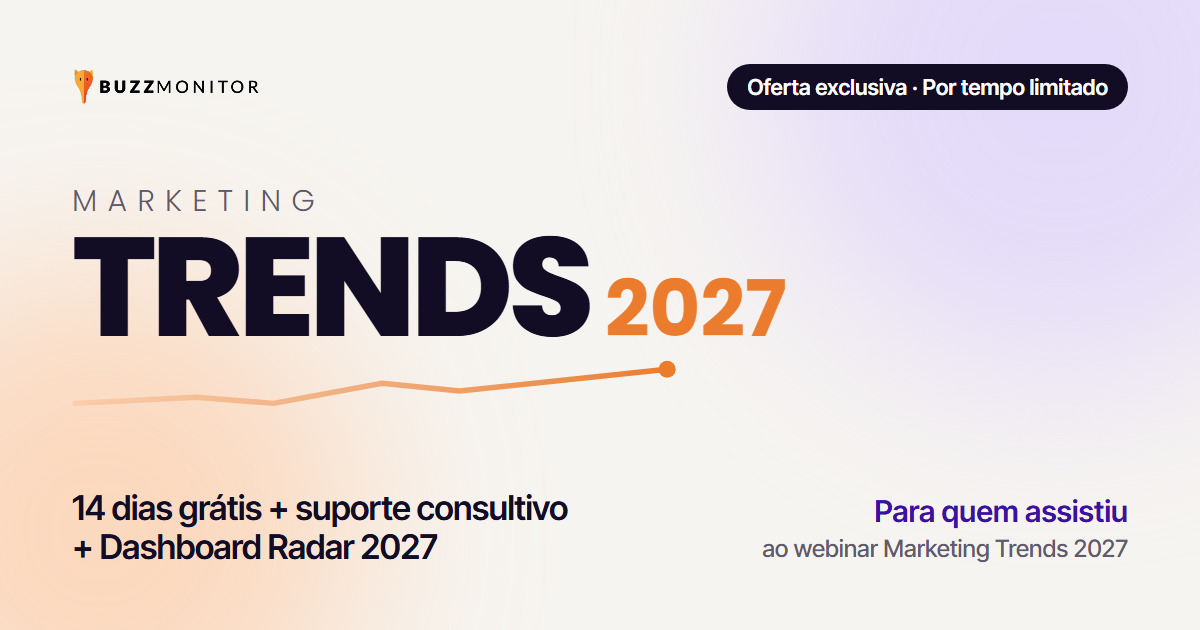
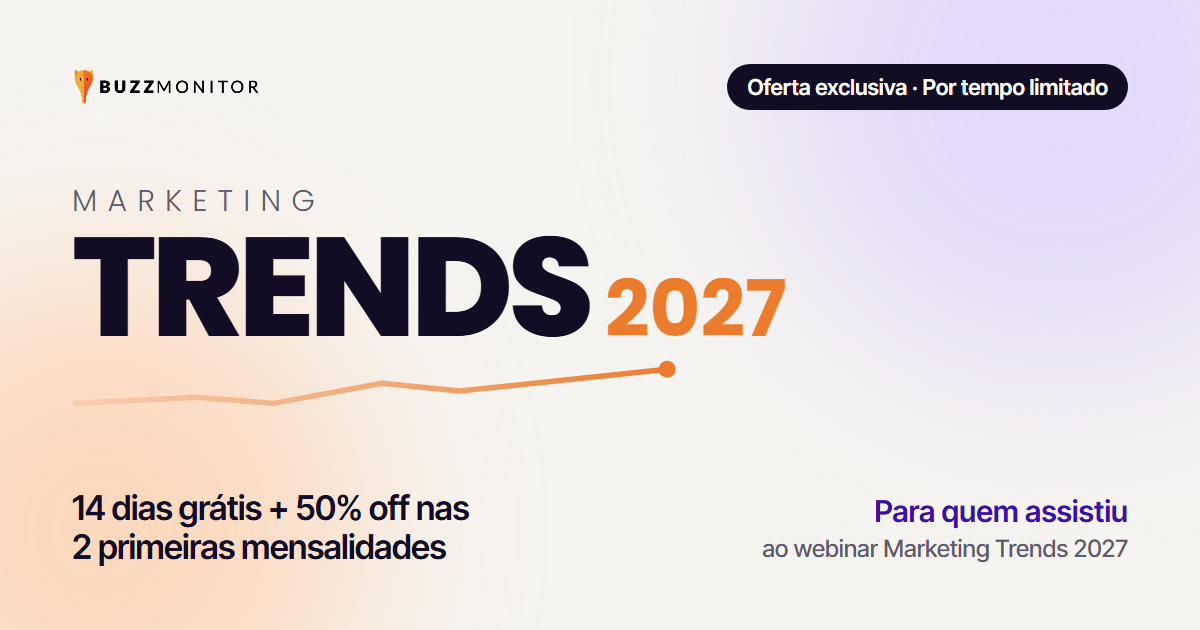
Trocar as ofertas das LPs de oferta do Marketing Trends 2027 (#979)
BR: 14 dias grátis + suporte consultivo + Dashboard Radar 2027 + 50% off
nas 2 primeiras mensalidades (a mesma oferta do webinar Black Friday sem
Caos). PT: na adesão ao plano anual, paga 10 meses e usufrui de 12, a
oferta aprovada para Portugal no webinar de janeiro. Previews (og)
regenerados.

Changed region(s): [[0.0617, 0.7841, 0.4933, 0.9048]]

diff --git a/landing-pages/buzzmonitor/oferta-marketing-trends-2027-pt/index.html b/landing-pages/buzzmonitor/oferta-marketing-trends-2027-pt/index.html
@@ -10,8 +10,8 @@ j=d.createElement(s),dl=l!='dataLayer'?'&l='+l:'';j.async=true;j.src=
 'https://www.googletagmanager.com/gtm.js?id='+i+dl;f.parentNode.insertBefore(j,f);
 })(window,document,'script','dataLayer','GTM-NCFT22CW');</script>
 <!-- End Google Tag Manager -->
-<title>Oferta exclusiva Marketing Trends 2027 · Buzzmonitor</title>
-<meta name="description" content="Para quem assistiu ao webinar Marketing Trends 2027: 14 dias grátis na Buzzmonitor, apoio consultivo, Dashboard Radar 2027 e condição exclusiva. Por tempo limitado." />
+<title>Oferta exclusiva Marketing Trends 2027: pague 10 meses e use 12 · Buzzmonitor</title>
+<meta name="description" content="Para quem assistiu ao webinar Marketing Trends 2027: ao aderir ao plano anual da Buzzmonitor, paga 10 meses e usufrui de 12. Válido até 15 de dezembro." />
 <meta name="robots" content="index, follow" />
 <meta name="author" content="Buzzmonitor" />
 <link rel="canonical" href="https://webinar.buzzmonitor.com/oferta-marketing-trends-2027-pt" />
@@ -19,15 +19,15 @@ j=d.createElement(s),dl=l!='dataLayer'?'&l='+l:'';j.async=true;j.src=
 <meta property="og:site_name" content="Buzzmonitor" />
 <meta property="og:locale" content="pt_PT" />
 <meta property="og:url" content="https://webinar.buzzmonitor.com/oferta-marketing-trends-2027-pt" />
-<meta property="og:title" content="Oferta exclusiva Marketing Trends 2027 · Buzzmonitor" />
-<meta property="og:description" content="14 dias grátis + apoio consultivo + Dashboard Radar 2027 + condição exclusiva. Por tempo limitado, para quem assistiu ao webinar." />
+<meta property="og:title" content="Oferta exclusiva Marketing Trends 2027: pague 10 meses e use 12" />
+<meta property="og:description" content="Ao aderir ao plano anual, paga 10 meses e usufrui de 12. Só para quem assistiu ao webinar, até 15 de dezembro." />
 <meta property="og:image" content="https://webinar.buzzmonitor.com/assets/buzzmonitor/og-oferta-marketing-trends-2027-pt.png" />
 <meta property="og:image:width" content="1200" />
 <meta property="og:image:height" content="630" />
 <meta property="og:image:alt" content="Oferta exclusiva para quem assistiu ao webinar Marketing Trends 2027" />
 <meta name="twitter:card" content="summary_large_image" />
-<meta name="twitter:title" content="Oferta exclusiva Marketing Trends 2027 · Buzzmonitor" />
-<meta name="twitter:description" content="14 dias grátis + apoio consultivo + Dashboard Radar 2027 + condição exclusiva. Por tempo limitado, para quem assistiu ao webinar." />
+<meta name="twitter:title" content="Oferta exclusiva Marketing Trends 2027: pague 10 meses e use 12" />
+<meta name="twitter:description" content="Ao aderir ao plano anual, paga 10 meses e usufrui de 12. Só para quem assistiu ao webinar, até 15 de dezembro." />
 <meta name="twitter:image" content="https://webinar.buzzmonitor.com/assets/buzzmonitor/og-oferta-marketing-trends-2027-pt.png" />
 <meta name="theme-color" content="#f6f4f0" />
 <link rel="icon" type="image/png" href="../../brand/buzzmonitor/assets/logos/logo-icon.png" />
@@ -258,32 +258,32 @@ height="0" width="0" style="display:none;visibility:hidden"></iframe></noscript>
 <!-- End Google Tag Manager (noscript) -->
 <svg width="0" height="0" style="position:absolute" aria-hidden="true"><defs><linearGradient id="lg1" x1="0" x2="1"><stop offset="0" stop-color="#eb7c2e" stop-opacity=".15"/><stop offset="1" stop-color="#eb7c2e"/></linearGradient></defs></svg>
 
-<header class="bar"><div><img src="../../brand/buzzmonitor/assets/logos/logo-primary.svg" alt="Buzzmonitor"><span class="urg">Por tempo limitado</span></div></header>
+<header class="bar"><div><img src="../../brand/buzzmonitor/assets/logos/logo-primary.svg" alt="Buzzmonitor"><span class="urg">Até 15 de dezembro</span></div></header>
 
 <section class="hero" aria-labelledby="h1">
   <div class="in">
     <div class="hc">
       <span class="ph-pill">Por tempo limitado <span>·</span> para quem assistiu ao webinar</span>
-      <h1 id="h1">O seu teste completo da Buzzmonitor <span class="o">já está disponível</span></h1>
-      <p class="sub">Viu as 9 tendências de 2027 no webinar. Agora pode acompanhar cada uma com os dados da sua marca, com um especialista a ajudar na configuração.</p>
+      <h1 id="h1">Pague 10 meses e <span class="o">use a Buzzmonitor 12</span></h1>
+      <p class="sub">Viu as 9 tendências de 2027 no webinar. Para as acompanhar com os dados da sua marca durante todo o ano, preparámos uma condição exclusiva na adesão ao plano anual.</p>
     </div>
-    <p class="deck-lb">Por ter participado, ganhou</p>
-    <ul class="deck" aria-label="O que ganhou">
-      <li class="oc g0" style="--r:-5deg;--d:.1s"><span class="tn">Teste</span><b>14 dias grátis</b><span class="tx">Acesso completo à plataforma, sem cartão de crédito.</span></li>
-      <li class="oc g1" style="--r:2deg;--d:.25s"><span class="tn">Apoio consultivo</span><b>Um especialista consigo</b><span class="tx">Configura a plataforma com a sua equipa e acompanha o teste.</span></li>
-      <li class="oc g2" style="--r:-2deg;--d:.4s"><span class="tn">Dashboard</span><b>Radar 2027</b><span class="tx">As tendências do webinar aplicadas aos dados da sua marca e do seu mercado.</span></li>
-      <li class="oc g3" style="--r:5deg;--d:.55s"><span class="tn">Na contratação</span><b>Condição exclusiva</b><span class="tx">Só para quem participou no Marketing Trends 2027.</span></li>
+    <p class="deck-lb">A sua condição exclusiva</p>
+    <ul class="deck" aria-label="A sua condição exclusiva">
+      <li class="oc g0" style="--r:-5deg;--d:.1s"><span class="tn">Plano anual</span><b>Pague 10, use 12</b><span class="tx">Ao aderir ao plano anual, paga 10 meses e usufrui de 12 meses de plataforma.</span></li>
+      <li class="oc g1" style="--r:2deg;--d:.25s"><span class="tn">Exclusiva</span><b>Para participantes</b><span class="tx">Só para quem participou no Marketing Trends 2027.</span></li>
+      <li class="oc g2" style="--r:-2deg;--d:.4s"><span class="tn">Plataforma completa</span><b>Tudo incluído</b><span class="tx">Social listening, apoio ao cliente, analytics e dashboards, com IA em cada etapa.</span></li>
+      <li class="oc g3" style="--r:5deg;--d:.55s"><span class="tn">Prazo</span><b>Até 15 de dezembro</b><span class="tx">Válida para novos clientes. Garanta já a sua.</span></li>
     </ul>
     <div class="hgrid">
       <div class="clock">
-        <span class="lb">Por tempo limitado</span>
+        <span class="lb">Até 15 de dezembro</span>
         <p class="big">Oferta exclusiva para quem assistiu ao webinar</p>
         <p>Preencha o formulário ao lado para garantir a sua.</p>
         <ul>
-          <li>14 dias grátis, sem cartão de crédito</li>
-          <li>Um especialista a configurar tudo consigo</li>
-          <li>Dashboard Radar 2027 com os dados da sua marca</li>
-          <li>Condição exclusiva na contratação</li>
+          <li>Plano anual: paga 10 meses e usufrui de 12</li>
+          <li>Acesso a todos os módulos da plataforma</li>
+          <li>Exclusiva para quem participou no webinar</li>
+          <li>Válida para novos clientes, até 15 de dezembro</li>
         </ul>
       </div>
       <div class="form" id="oferta">
@@ -319,7 +319,7 @@ height="0" width="0" style="display:none;visibility:hidden"></iframe></noscript>
 
 <section class="blk" style="padding-top:0" aria-labelledby="r-t">
   <div class="in">
-    <div class="sec-h"><span class="eyebrow">No seu teste</span><h2 id="r-t">Tudo o que a Buzzmonitor tem, disponível para si</h2><p>Monitorização, apoio ao cliente e análise numa só plataforma, com IA a ajudar em cada etapa.</p></div>
+    <div class="sec-h"><span class="eyebrow">No seu plano</span><h2 id="r-t">Tudo o que a Buzzmonitor tem, durante 12 meses</h2><p>Monitorização, apoio ao cliente e análise numa só plataforma, com IA a ajudar em cada etapa.</p></div>
     <div class="feat">
       <figure class="shot wait" id="shot"><img src="./assets/dashboard-laptop.png" alt="Dashboard da Buzzmonitor aberto num portátil" loading="lazy"></figure>
       <ul class="fl">
@@ -341,10 +341,10 @@ height="0" width="0" style="display:none;visibility:hidden"></iframe></noscript>
     <div class="sec-h"><span class="eyebrow">Como funciona</span><h2 id="h-t">O que acontece depois de preencher</h2></div>
     <div class="steps">
       <div class="step"><b>1</b><h3>Preencha o formulário</h3><p>Demora menos de 1 minuto. A oferta fica reservada em seu nome.</p></div>
-      <div class="step"><b>2</b><h3>Fale com um especialista</h3><p>No prazo de 1 dia útil, entramos em contacto para conhecer a sua marca e os seus objetivos para 2027.</p></div>
-      <div class="step"><b>3</b><h3>Utilize durante 14 dias</h3><p>O seu acesso é disponibilizado com o Dashboard Radar 2027 configurado e o especialista a acompanhar o teste.</p></div>
+      <div class="step"><b>2</b><h3>Fale com um especialista</h3><p>No prazo de 1 dia útil, entramos em contacto para conhecer a sua marca, os seus objetivos para 2027 e apresentar a proposta do plano anual.</p></div>
+      <div class="step"><b>3</b><h3>Utilize durante 12 meses</h3><p>Ao aderir ao plano anual, paga 10 meses e usufrui de 12 meses de plataforma para acompanhar as tendências com os dados da sua marca.</p></div>
     </div>
-    <div class="ctas"><a class="btn org big" href="#oferta">Começar o meu teste →</a></div>
+    <div class="ctas"><a class="btn org big" href="#oferta">Garantir a minha oferta →</a></div>
   </div>
 </section>
 
@@ -363,9 +363,9 @@ height="0" width="0" style="display:none;visibility:hidden"></iframe></noscript>
     <div class="dk">
       <span class="logo" style="--s:44px" aria-hidden="true"><span class="l1">Marketing</span><span class="l2"><b>Trends</b><i>2027</i></span><svg class="ln" viewBox="0 0 400 34"><path d="M2 28 L80 24 L130 28 L200 15 L250 20 L384 6" fill="none" stroke="url(#lg1)" stroke-width="3.5" stroke-linecap="round" stroke-linejoin="round"/><circle cx="384" cy="6" r="5.5" fill="#eb7c2e"/></svg></span>
       <h2 id="f-t2">Comece 2027 a saber o que o seu cliente está <strong>a dizer hoje.</strong></h2>
-      <p>Garanta 14 dias grátis na Buzzmonitor + apoio consultivo + Dashboard Radar 2027 + condição exclusiva para participantes do webinar.</p>
+      <p>Na adesão ao plano anual, paga 10 meses e usufrui de 12 meses de Buzzmonitor. Condição exclusiva para participantes do webinar.</p>
       <a class="btn org big" href="#oferta">Começar agora →</a>
-      <span style="font-size:13px;color:#b8b2c9">Oferta por tempo limitado.</span>
+      <span style="font-size:13px;color:#b8b2c9">Válida para novos clientes, até 15 de dezembro.</span>
     </div>
   </div>
 </section>

diff --git a/landing-pages/buzzmonitor/oferta-marketing-trends-2027/index.html b/landing-pages/buzzmonitor/oferta-marketing-trends-2027/index.html
@@ -10,8 +10,8 @@ j=d.createElement(s),dl=l!='dataLayer'?'&l='+l:'';j.async=true;j.src=
 'https://www.googletagmanager.com/gtm.js?id='+i+dl;f.parentNode.insertBefore(j,f);
 })(window,document,'script','dataLayer','GTM-WFJVK858');</script>
 <!-- End Google Tag Manager -->
-<title>Oferta exclusiva Marketing Trends 2027 · Buzzmonitor</title>
-<meta name="description" content="Para quem assistiu ao webinar Marketing Trends 2027: 14 dias grátis na Buzzmonitor, suporte consultivo, dashboard Radar 2027 e condição exclusiva. Por tempo limitado." />
+<title>Oferta exclusiva Marketing Trends 2027: 50% off nas 2 primeiras mensalidades · Buzzmonitor</title>
+<meta name="description" content="Para quem assistiu ao webinar Marketing Trends 2027: 14 dias grátis na Buzzmonitor, suporte consultivo, Dashboard Radar 2027 e 50% off nas 2 primeiras mensalidades. Por tempo limitado." />
 <meta name="robots" content="index, follow" />
 <meta name="author" content="Buzzmonitor" />
 <link rel="canonical" href="https://webinar.buzzmonitor.com/oferta-marketing-trends-2027" />
@@ -20,14 +20,14 @@ j=d.createElement(s),dl=l!='dataLayer'?'&l='+l:'';j.async=true;j.src=
 <meta property="og:locale" content="pt_BR" />
 <meta property="og:url" content="https://webinar.buzzmonitor.com/oferta-marketing-trends-2027" />
 <meta property="og:title" content="Oferta exclusiva Marketing Trends 2027 · Buzzmonitor" />
-<meta property="og:description" content="14 dias grátis + suporte consultivo + Dashboard Radar 2027 + condição exclusiva. Por tempo limitado, para quem assistiu ao webinar." />
+<meta property="og:description" content="14 dias grátis + 50% off nas 2 primeiras mensalidades + suporte consultivo + Dashboard Radar 2027. Por tempo limitado, para quem assistiu ao webinar." />
 <meta property="og:image" content="https://webinar.buzzmonitor.com/assets/buzzmonitor/og-oferta-marketing-trends-2027.png" />
 <meta property="og:image:width" content="1200" />
 <meta property="og:image:height" content="630" />
 <meta property="og:image:alt" content="Oferta exclusiva para quem assistiu ao webinar Marketing Trends 2027" />
 <meta name="twitter:card" content="summary_large_image" />
 <meta name="twitter:title" content="Oferta exclusiva Marketing Trends 2027 · Buzzmonitor" />
-<meta name="twitter:description" content="14 dias grátis + suporte consultivo + Dashboard Radar 2027 + condição exclusiva. Por tempo limitado, para quem assistiu ao webinar." />
+<meta name="twitter:description" content="14 dias grátis + 50% off nas 2 primeiras mensalidades + suporte consultivo + Dashboard Radar 2027. Por tempo limitado, para quem assistiu ao webinar." />
 <meta name="twitter:image" content="https://webinar.buzzmonitor.com/assets/buzzmonitor/og-oferta-marketing-trends-2027.png" />
 <meta name="theme-color" content="#f6f4f0" />
 <link rel="icon" type="image/png" href="../../brand/buzzmonitor/assets/logos/logo-icon.png" />
@@ -264,7 +264,7 @@ height="0" width="0" style="display:none;visibility:hidden"></iframe></noscript>
   <div class="in">
     <div class="hc">
       <span class="ph-pill">Por tempo limitado <span>·</span> para quem assistiu ao webinar</span>
-      <h1 id="h1">Seu teste completo da Buzzmonitor <span class="o">já está liberado</span></h1>
+      <h1 id="h1">14 dias grátis e <span class="o">50% off</span> nas 2 primeiras mensalidades</h1>
       <p class="sub">Você viu as 9 tendências de 2027 no webinar. Agora dá para acompanhar cada uma com os dados da sua marca, com um especialista ajudando na configuração.</p>
     </div>
     <p class="deck-lb">Por ter participado, você ganhou</p>
@@ -272,7 +272,7 @@ height="0" width="0" style="display:none;visibility:hidden"></iframe></noscript>
       <li class="oc g0" style="--r:-5deg;--d:.1s"><span class="tn">Teste</span><b>14 dias grátis</b><span class="tx">Acesso completo à plataforma, sem cartão de crédito.</span></li>
       <li class="oc g1" style="--r:2deg;--d:.25s"><span class="tn">Suporte consultivo</span><b>Especialista com você</b><span class="tx">Configura a plataforma junto com o seu time e acompanha o teste.</span></li>
       <li class="oc g2" style="--r:-2deg;--d:.4s"><span class="tn">Dashboard</span><b>Radar 2027</b><span class="tx">As tendências do webinar aplicadas aos dados da sua marca e do seu mercado.</span></li>
-      <li class="oc g3" style="--r:5deg;--d:.55s"><span class="tn">Na contratação</span><b>Condição exclusiva</b><span class="tx">Só para quem participou do Marketing Trends 2027.</span></li>
+      <li class="oc g3" style="--r:5deg;--d:.55s"><span class="tn">Na contratação</span><b>50% off</b><span class="tx">Nas 2 primeiras mensalidades, só para quem participou do Marketing Trends 2027.</span></li>
     </ul>
     <div class="hgrid">
       <div class="clock">
@@ -283,7 +283,7 @@ height="0" width="0" style="display:none;visibility:hidden"></iframe></noscript>
           <li>14 dias grátis, sem cartão de crédito</li>
           <li>Especialista configurando tudo com você</li>
           <li>Dashboard Radar 2027 com os dados da sua marca</li>
-          <li>Condição exclusiva na contratação</li>
+          <li>50% off nas 2 primeiras mensalidades</li>
         </ul>
       </div>
       <div class="form" id="oferta">
@@ -342,7 +342,7 @@ height="0" width="0" style="display:none;visibility:hidden"></iframe></noscript>
     <div class="steps">
       <div class="step"><b>1</b><h3>Preencha o formulário</h3><p>Leva menos de 1 minuto. A oferta fica reservada no seu nome.</p></div>
       <div class="step"><b>2</b><h3>Fale com um especialista</h3><p>Em até 1 dia útil, entramos em contato para entender sua marca e seus objetivos para 2027.</p></div>
-      <div class="step"><b>3</b><h3>Use por 14 dias</h3><p>Seu acesso é liberado com o dashboard Radar 2027 configurado e o especialista acompanhando o teste.</p></div>
+      <div class="step"><b>3</b><h3>Use por 14 dias</h3><p>Seu acesso é liberado com o dashboard Radar 2027 configurado e o especialista acompanhando o teste. Se decidir continuar, as 2 primeiras mensalidades saem pela metade do preço.</p></div>
     </div>
     <div class="ctas"><a class="btn org big" href="#oferta">Quero começar meu teste →</a></div>
   </div>
@@ -363,7 +363,7 @@ height="0" width="0" style="display:none;visibility:hidden"></iframe></noscript>
     <div class="dk">
       <span class="logo" style="--s:44px" aria-hidden="true"><span class="l1">Marketing</span><span class="l2"><b>Trends</b><i>2027</i></span><svg class="ln" viewBox="0 0 400 34"><path d="M2 28 L80 24 L130 28 L200 15 L250 20 L384 6" fill="none" stroke="url(#lg1)" stroke-width="3.5" stroke-linecap="round" stroke-linejoin="round"/><circle cx="384" cy="6" r="5.5" fill="#eb7c2e"/></svg></span>
       <h2 id="f-t2">Comece 2027 sabendo o que o seu cliente está <strong>falando hoje.</strong></h2>
-      <p>Garanta 14 dias grátis na Buzzmonitor + suporte consultivo + Dashboard Radar 2027 + condição exclusiva para participantes do webinar.</p>
+      <p>Garanta 14 dias grátis na Buzzmonitor + suporte consultivo + Dashboard Radar 2027 + 50% off nas 2 primeiras mensalidades para participantes do webinar.</p>
       <a class="btn org big" href="#oferta">Quero começar agora →</a>
       <span style="font-size:13px;color:#b8b2c9">Oferta por tempo limitado.</span>
     </div>

diff --git a/landing-pages/buzzmonitor/oferta-marketing-trends-2027/assets/og-source.html b/landing-pages/buzzmonitor/oferta-marketing-trends-2027/assets/og-source.html
@@ -27,6 +27,6 @@
   <div class="top"><img src="../../../../brand/buzzmonitor/assets/logos/logo-primary.svg" alt=""><span class="pill">Oferta exclusiva · Por tempo limitado</span></div>
   <div class="logo"><div class="l1">Marketing</div><div class="l2"><b>Trends</b><i>2027</i></div>
     <svg viewBox="0 0 400 34"><defs><linearGradient id="g" x1="0" x2="1"><stop offset="0" stop-color="#eb7c2e" stop-opacity=".15"/><stop offset="1" stop-color="#eb7c2e"/></linearGradient></defs><path d="M2 28 L80 24 L130 28 L200 15 L250 20 L384 6" fill="none" stroke="url(#g)" stroke-width="3.5" stroke-linecap="round" stroke-linejoin="round"/><circle cx="384" cy="6" r="5.5" fill="#eb7c2e"/></svg></div>
-  <div class="bot"><p>14 dias grátis + suporte consultivo + Dashboard Radar 2027</p><div class="date"><strong>Para quem assistiu</strong>ao webinar Marketing Trends 2027</div></div>
+  <div class="bot"><p>14 dias grátis + 50% off nas 2 primeiras mensalidades</p><div class="date"><strong>Para quem assistiu</strong>ao webinar Marketing Trends 2027</div></div>
 </div>
 </body></html>

diff --git a/landing-pages/buzzmonitor/oferta-marketing-trends-2027-pt/assets/og-source.html b/landing-pages/buzzmonitor/oferta-marketing-trends-2027-pt/assets/og-source.html
@@ -27,6 +27,6 @@
   <div class="top"><img src="../../../../brand/buzzmonitor/assets/logos/logo-primary.svg" alt=""><span class="pill">Oferta exclusiva · Por tempo limitado</span></div>
   <div class="logo"><div class="l1">Marketing</div><div class="l2"><b>Trends</b><i>2027</i></div>
     <svg viewBox="0 0 400 34"><defs><linearGradient id="g" x1="0" x2="1"><stop offset="0" stop-color="#eb7c2e" stop-opacity=".15"/><stop offset="1" stop-color="#eb7c2e"/></linearGradient></defs><path d="M2 28 L80 24 L130 28 L200 15 L250 20 L384 6" fill="none" stroke="url(#g)" stroke-width="3.5" stroke-linecap="round" stroke-linejoin="round"/><circle cx="384" cy="6" r="5.5" fill="#eb7c2e"/></svg></div>
-  <div class="bot"><p>14 dias grátis + apoio consultivo + Dashboard Radar 2027</p><div class="date"><strong>Para quem assistiu</strong>ao webinar Marketing Trends 2027</div></div>
+  <div class="bot"><p>Pague 10 meses e use a Buzzmonitor 12</p><div class="date"><strong>Para quem assistiu</strong>ao webinar Marketing Trends 2027</div></div>
 </div>
 </body></html>
